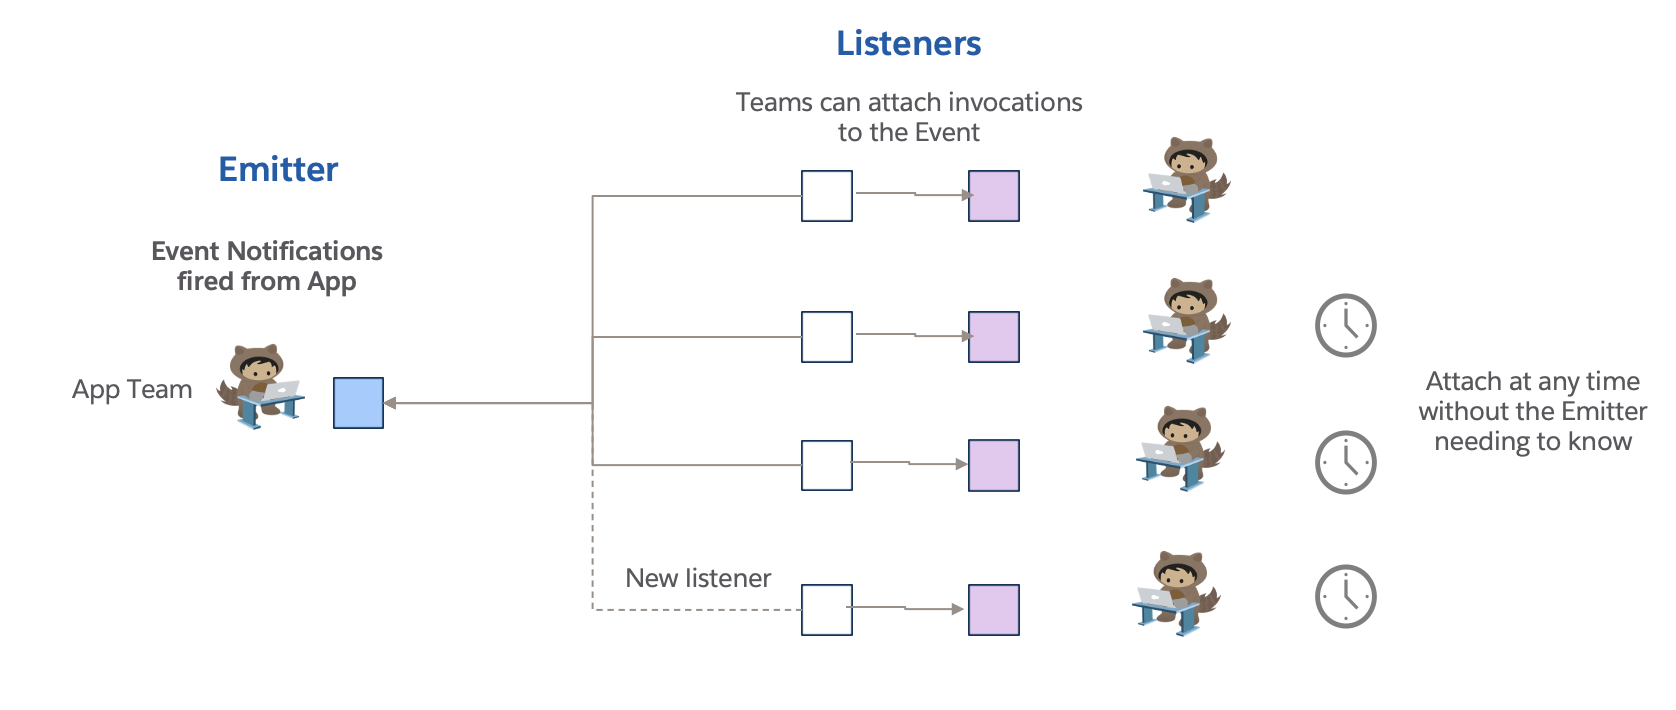
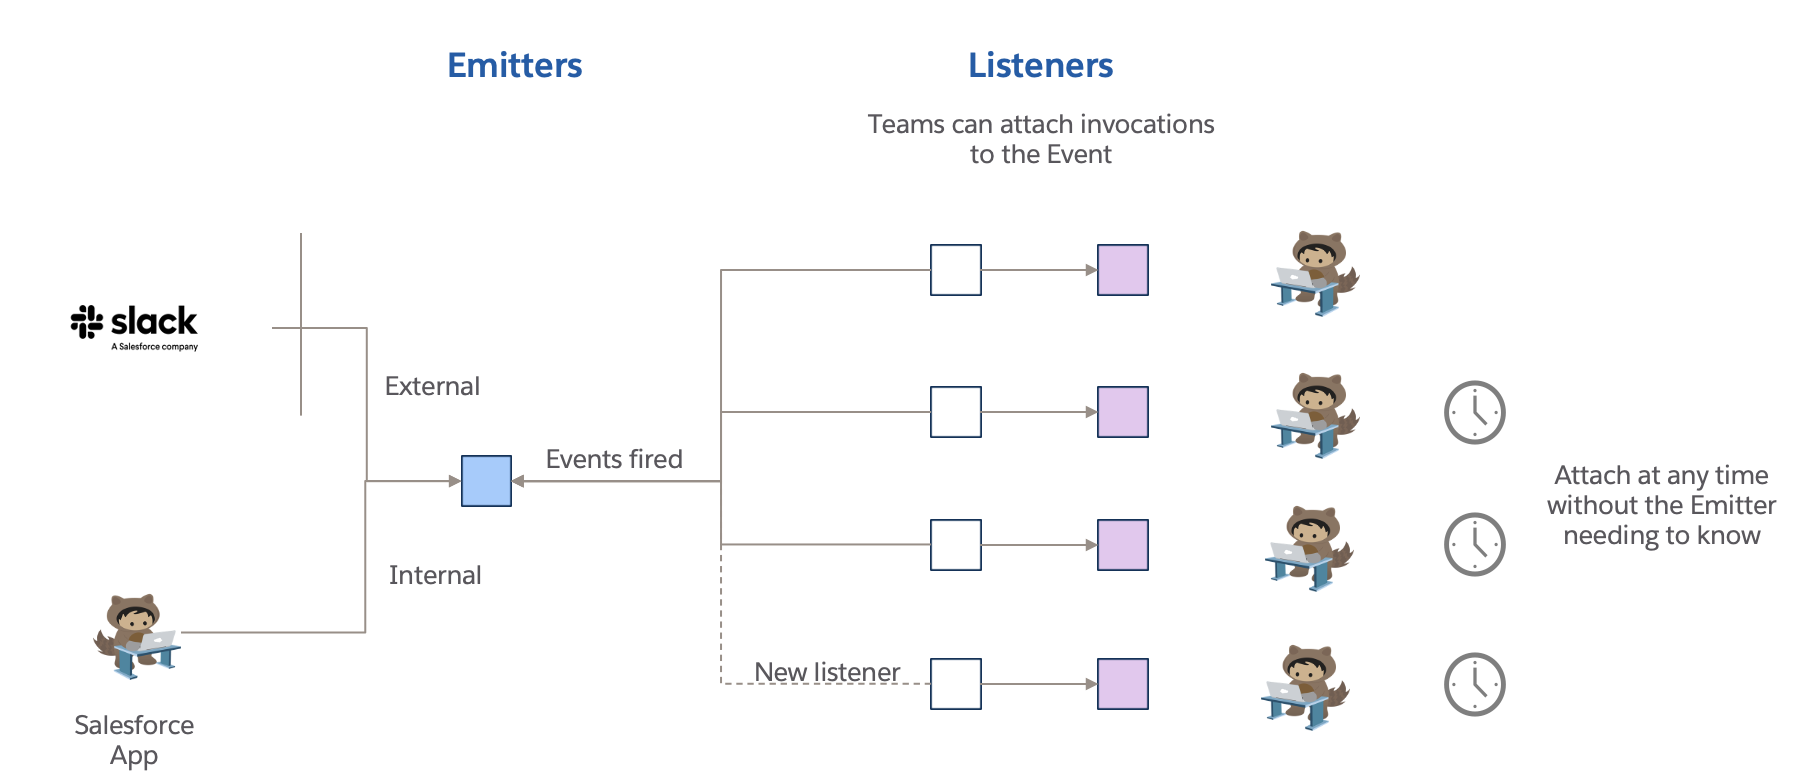
Events dear boy

diff --git a/use-cases/Events.md b/use-cases/Events.md
@@ -1,10 +1,12 @@
 ## Event-Based Processing
 
-An important alternative to the fundamentally message-based architecture of invocation is the concept of a **Microscope Event**. 
+An important alternative to the fundamentally message-based architecture of invocations is the concept of a **Microscope Event**. 
 
-A *Microscope Event* represents a change in the org that can be acted upon by the Microscope engine. Let's for example imagine a new Product is added to the catalogue. Different parts of the business may want to react to this, to alert a compliance team, to integrate to an inventory system or to notify a Sales team's chatter group. However, the team that creates the product record does not need to know all of these consequences, their job is to simply create the Product, so for them to have to create code to trigger each use case is putting the work to the wrong team and is building dependencies where they are not needed.
+A *Microscope Event* represents a change in the org that can configure to be acted upon by the Microscope engine. Let's for example imagine a new Product is added to the catalogue. Different parts of the business may want to react to this, to alert a compliance team, to integrate to an inventory system or to post to a Sales team's chatter group. However, the team that creates the product record does not need to know all of these consequences, their job is to simply create the Product record and that may be the scope of their ownerships in the governance model. For them to have to create code to trigger each use case is putting the work to the wrong team and is building dependencies where they are not needed. 
 
-Our solution is built upon our invocation and service model, Event-driven architectures are often designed on top of message-driven architectures, and the emphasis for us is again in addressing and minimizing dependencies and complexity rather than in other benefits of some native Event-driven implementations.
+An event model has many use cases and can prove especially useful for external clients. Another example might occur in an Enterprise using a *Slack App* as a front end. A simple integration into Salesforce can consist of just emitting a *Microscope Event* behind the endpoint, allowing any part of the org to pick up on the change and perform whatever actions they need. An Event can also be fired from a Flow Controller, an Apex Trigger, an LWC Controller, a Platform Event or Change Data Capture (CDC) trigger, indeed pretty much anywhere one would want to. 
+
+Our Event solution is built upon our invocation and service model but this is not unusual. Event-driven architectures are often designed on top of message-driven architectures, and the emphasis for us is again in addressing and minimizing dependencies and complexity and in increasing technical visbility rather than in other benefits of some native Event-driven implementations.
 
 ![Events Model](Events.png)
 
@@ -13,7 +15,9 @@ Our solution is built upon our invocation and service model, Event-driven archit
 
 An Event is represented by a Custom Metadata Type (CMP) called **Microscope Event** (API name: mscope__Event__mdt). If you want an invocation to be triggered by an event you need to populate the lookup on the **Invocation** CMT Record (mscope__Invocation__mdt) defined by the field *mscope__Microscope_Event__c*. Once that is done the invocation will be run whenever the related *Microscope Event* is fired. It's as simple as that. 
 
-There is a volidation on the *Invocation CMT* which requires that any invocation trigger by an Event must have an asynchronous *Invocation Mechanism* (e.g. "Queueable" or "Async"). The reason is that by allowing any team to subscribe to an Event we could hit governor limits if we were to allow synchronsous invocations. 
+The *Microscope Event* CMT also has fields that represent the package that contains the events metadata and the *Input Definition* of the Notifications that the event emits. As Events are asynchronous there is no need for an *Output Definition* to be provided.
+
+There is a volidation rule on the *Invocation CMT* which requires that any invocation trigger by an Event must have an asynchronous *Invocation Mechanism* (e.g. "Queueable" or "Async"). The reason is that by allowing any team to subscribe to an Event we could hit governor limits if we were to allow synchronsous invocations. There is also a tooling validation that the Input Definition of each Invocation related to an event is castable from the Event's Input Definition.
 
 Once setup firing the Evnet from Apex is simple
 
@@ -24,19 +28,9 @@ event.fire(inputMessage);
 
 You can see a simple example in the Demo Code (here)[https://github.com/kevinhenryburke/frictionless/blob/master/demo/force-app/components/sampleFireEvent/classes/SampleEventController.cls] of an Event called from an LWC.
 
+## Teams creating and listening to Events
 
-Can call Event.fire(Event_CMT, InputData) in a PE Trigger, code, flow controller etc...
+The team that creates an Event need to decide its **scope** within the org, do they want any part of the org, this will determine the package in which to load the Event's metadata. If the Event is usable across the full org we call it a **global event** and it should be created as part of a base package that is loaded before any LOB or Regional packages. In this way the Event can be referenced by any invocation created within the org. However it is also possible to restrict the Event to a particular LOB for example by loading its metadata in the LOB's lowest level package, authors of other LOB packages will not be able to reference this **local event** it in their invocations.
 
-Reusable flow templates for stuff (i.e. flow elements ... ??) - new story
-
-Would need validation - however Events should have input signatures only, not output
-Validate that all listeners are async.
-
-Would need to add Event to Invocation Details, perm setts, Audit field, CRMA field etc and have an Event correlation id etc
-
-There's some advantages to this
-Some of the "listeners" can be sync and some async
-Package builders can create a subscription - and will even have their own invocation ids for testing
-The Event CMT would need to be inside a "global" package, almost a base level package if it's global, or at a LOB level depending on scope of who is allowed to pick up the event.
-
+Provided am *Event* is visible within their scope, package builders can create a subscription via an Invocation CMT record referencing the Event. They will even be able to create test invoctions within their packages to see that their developments are behaving as they would like.
 
